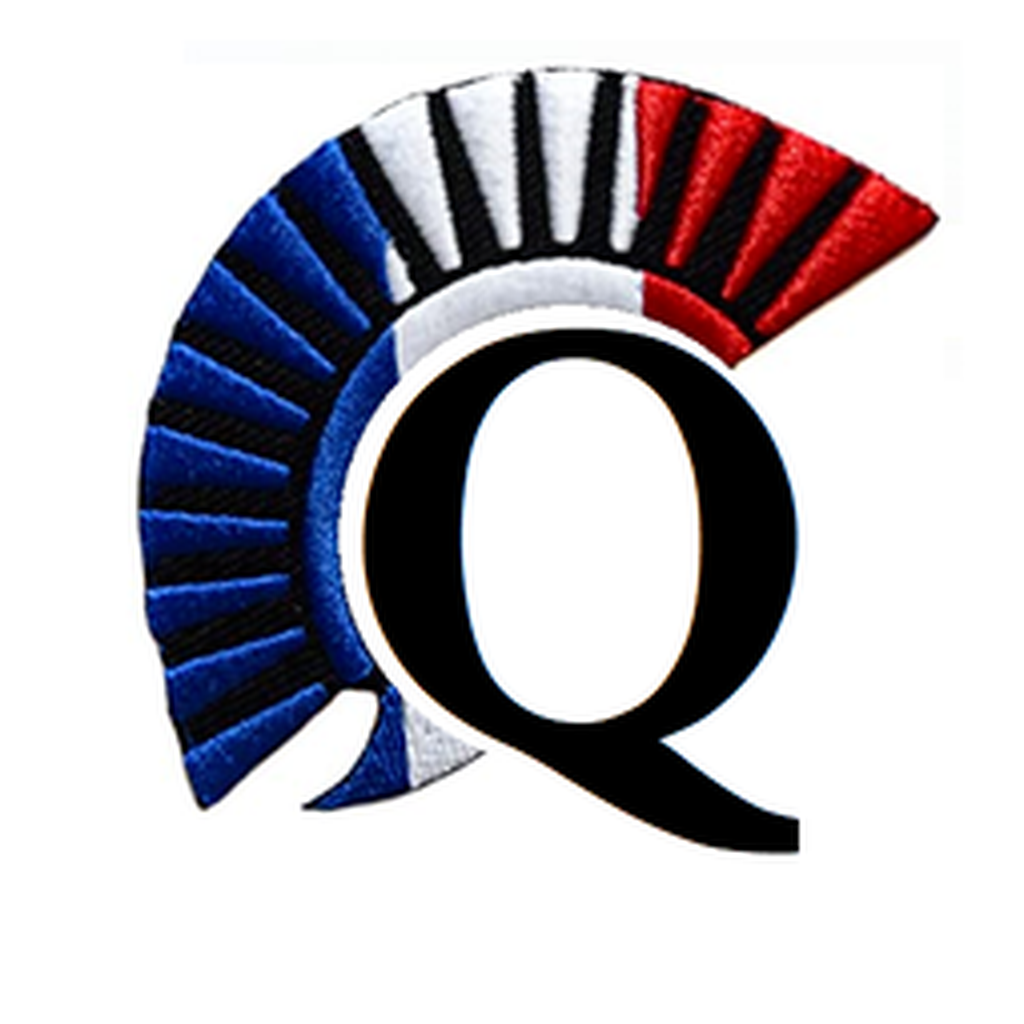
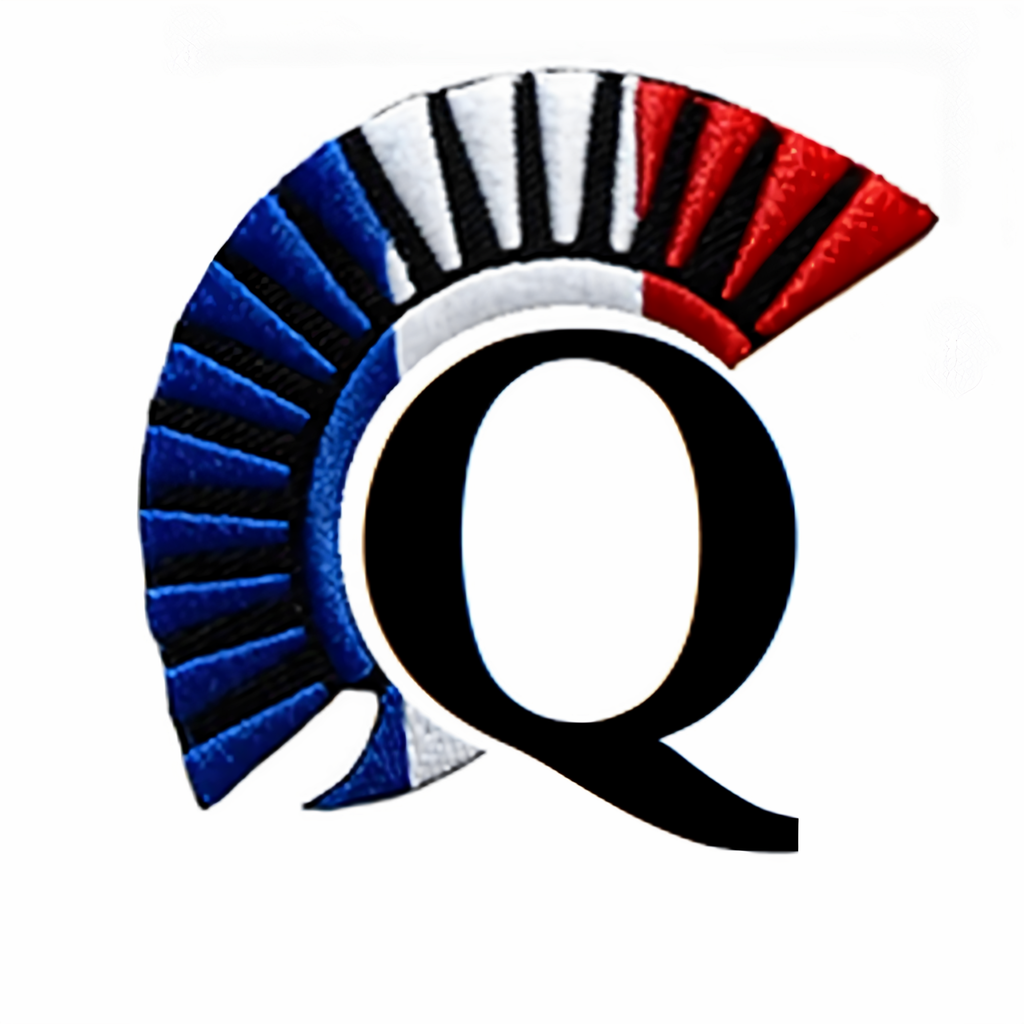
Changed how splash screen works using native tech

diff --git a/lib/screens/ArticleScreen.dart b/lib/screens/ArticleScreen.dart
@@ -1,11 +1,14 @@
 import 'package:Qactus/json_processing/Article.dart';
 import 'package:flutter/cupertino.dart';
+import 'package:flutter/foundation.dart';
+import 'package:flutter/gestures.dart';
 import 'package:flutter/material.dart';
 import 'package:flutter_html/flutter_html.dart';
 import 'package:flutter_html/html_parser.dart';
 import 'package:flutter_html/style.dart';
 import 'package:share/share.dart';
 import 'package:url_launcher/url_launcher.dart';
+import 'package:webview_flutter/webview_flutter.dart';
 
 class ArticleScreen extends StatelessWidget {
   final Article article;
@@ -37,47 +40,83 @@ class ArticleScreen extends StatelessWidget {
       body: Scrollbar(
         child: SingleChildScrollView(
           child: Html(
-            data: article.content.text,
-            // TODO: those custom styles are placeholders
-            style: {
-              //  "html": Style(
-              //    backgroundColor: Colors.black12,
-              //   color: Colors.white,
-              //  ),
-              // "h1": Style(
-              //   textAlign: TextAlign.center,
-              // ),
-              "img": Style(
-                alignment: Alignment.center,
-              )
-            },
-            customRender: {
-              "video": (RenderContext context, Widget child, attributes, _) {
-                return FlutterLogo(
-                  style: (attributes['horizontal'] != null)
-                      ? FlutterLogoStyle.horizontal
-                      : FlutterLogoStyle.markOnly,
-                  textColor: context.style.color,
-                  size: context.style.fontSize.size * 5,
-                );
+              data: article.content.text,
+              // TODO: those custom styles are placeholders
+              style: {
+                "img": Style(
+                  alignment: Alignment.center,
+                )
               },
-            },
-            onLinkTap: (url) async {
-              if (await canLaunch(url)) {
-                await launch(url);
-              } else {
-                throw 'Could not launch $url';
-              }
-            },
-            onImageTap: (src) {
-              Image.network(src);
-            },
-            onImageError: (exception, stackTrace) {
-              print(exception);
-            },
-          ),
+              // customRender: getCustomRender(),
+              onLinkTap: (url) async {
+                if (await canLaunch(url)) {
+                  await launch(url);
+                } else {
+                  throw 'Could not launch $url';
+                }
+              },
+              onImageTap: (src) {
+                print("test");
+                Image.network(src);
+              },
+              onImageError: (exception, stackTrace) {
+                print(exception);
+              },
+              customRender: {
+                "iframe": (RenderContext context, Widget child,
+                    Map<String, String> attributes, _) {
+                  if (attributes != null && attributes.length > 0) {
+                    double width = double.tryParse(attributes['width'] ?? "");
+                    double height = double.tryParse(attributes['height'] ?? "");
+                    print(attributes['src']);
+                    return Container(
+                      width: width ?? (height ?? 150) * 2,
+                      height: height ?? (width ?? 300) / 2,
+                      child: WebView(
+                        initialUrl: attributes['src'],
+                        javascriptMode: JavascriptMode.unrestricted,
+                        //no need for scrolling gesture recognizers on embedded youtube, so set gestureRecognizers null
+                        //on other iframe content scrolling might be necessary, so use VerticalDragGestureRecognizer
+                        gestureRecognizers: attributes['src']
+                                .contains("youtube.com/embed")
+                            ? null
+                            : [Factory(() => VerticalDragGestureRecognizer())]
+                                .toSet(),
+                        navigationDelegate: (NavigationRequest request) async {
+                          // //no need to load any url besides the embedded youtube url when displaying embedded youtube, so prevent url loading
+                          // //on other iframe content allow all url loading
+                          // if (attributes['src'].contains("youtube.com/embed")) {
+                          //   if (!request.url.contains("youtube.com/embed")) {
+                          //     return NavigationDecision.prevent;
+                          //   } else {
+                          //     return NavigationDecision.navigate;
+                          //   }
+                          // } else {
+                          return NavigationDecision.navigate;
+                          // }
+                        },
+                      ),
+                    );
+                  } else {
+                    return Container(height: 0);
+                  }
+                }
+              }),
         ),
       ),
     );
   }
+
+  // // define all customRenders
+  // Map<String, CustomRender> getCustomRender() {
+  //   var customRender = HashMap<String, CustomRender>();
+  //   customRender["iframe"] = getVideoCustomRender;
+  //   return customRender;
+  // }
+  //
+  // // create customRender for asset images
+  // Widget getVideoCustomRender(RenderContext context, Widget parsedChild,
+  //     Map<String, String> attributes, element) {
+  //   return VideoPlayerScreen(url: attributes["src"]);
+  // }
 }

diff --git a/lib/screens/VideoPlayerScreen.dart b/lib/screens/VideoPlayerScreen.dart
@@ -1,0 +1,65 @@
+import 'dart:async';
+
+import 'package:flutter/material.dart';
+import 'package:video_player/video_player.dart';
+
+class VideoPlayerScreen extends StatefulWidget {
+  VideoPlayerScreen({Key key, @required this.url}) : super(key: key);
+
+  final String url;
+
+  @override
+  _VideoPlayerScreenState createState() => _VideoPlayerScreenState();
+}
+
+class _VideoPlayerScreenState extends State<VideoPlayerScreen> {
+  VideoPlayerController _controller;
+  Future<void> _initializeVideoPlayerFuture;
+
+  @override
+  void initState() {
+    _controller = VideoPlayerController.network(widget.url);
+    _initializeVideoPlayerFuture = _controller.initialize();
+    _controller.setLooping(true);
+    super.initState();
+  }
+
+  @override
+  void dispose() {
+    _controller.dispose();
+    super.dispose();
+  }
+
+  @override
+  Widget build(BuildContext context) {
+    return Scaffold(
+      body: FutureBuilder(
+        future: _initializeVideoPlayerFuture,
+        builder: (context, snapshot) {
+          if (snapshot.connectionState == ConnectionState.done) {
+            return AspectRatio(
+              aspectRatio: _controller.value.aspectRatio,
+              child: VideoPlayer(_controller),
+            );
+          } else {
+            return Center(
+              child: CircularProgressIndicator(),
+            );
+          }
+        },
+      ),
+      floatingActionButton: FloatingActionButton(
+        onPressed: () {
+          setState(() {
+            _controller.value.isPlaying
+                ? _controller.pause()
+                : _controller.play();
+          });
+        },
+        // child: Icon(
+        //   _controller.value.isPlaying ? Icons.pause : Icons.play_arrow,
+        // ),
+      ),
+    );
+  }
+}

diff --git a/lib/screens/HomePageScreen.dart b/lib/screens/HomePageScreen.dart
@@ -15,7 +15,6 @@ import 'package:octo_image/octo_image.dart';
 import '../components/HttpFeeds.dart';
 import 'ArticleScreen.dart';
 import 'ErrorScreen.dart';
-import 'SplashScreen.dart';
 
 class HomePageScreen extends StatefulWidget {
   const HomePageScreen({Key key}) : super(key: key);
@@ -32,8 +31,6 @@ class _HomePageScreenState extends State<HomePageScreen> {
   final DateFormat _dateFormatter = DateFormat('dd-MM-yyyy');
   Future<List<Article>> _articles;
 
-  double _loadingProgress;
-
   @override
   void initState() {
     super.initState();
@@ -47,8 +44,6 @@ class _HomePageScreenState extends State<HomePageScreen> {
       builder: (BuildContext context, AsyncSnapshot<List<Article>> snapshot) {
         if (snapshot.hasError) {
           return ErrorScreen();
-        } else if (!snapshot.hasData) {
-          return SplashScreen();
         }
 
         return Scaffold(
@@ -90,7 +85,7 @@ class _HomePageScreenState extends State<HomePageScreen> {
           ),
           body: Scrollbar(
             child: ListView.builder(
-              itemCount: snapshot.data.length,
+              itemCount: snapshot.hasData ? snapshot.data.length : 0,
               itemBuilder: (BuildContext builder, int index) {
                 if (snapshot.connectionState == ConnectionState.done &&
                     EasyLoading.isShow) {

diff --git a/lib/components/SideMenu.dart b/lib/components/SideMenu.dart
@@ -17,7 +17,7 @@ class SideMenu extends StatelessWidget {
                 crossAxisAlignment: CrossAxisAlignment.start,
                 children: [
                   Image.asset(
-                    "assets/header.png",
+                    "assets/appstore.png",
                     width: 100,
                   ),
                   Text(
@@ -56,7 +56,11 @@ class SideMenu extends StatelessWidget {
                         applicationVersion: packageInfo.version +
                             " build number " +
                             packageInfo.buildNumber,
-                        applicationIcon: Image.asset("assets/header.png"),
+                        applicationIcon: Image.asset(
+                          "assets/appstore.png",
+                          width: 100.0,
+                          height: 100.0,
+                        ),
                         children: [
                           Text(
                               "Un avis? Une suggestion? Juste quelque chose à me dire?"),

diff --git a/lib/Main.dart b/lib/Main.dart
@@ -3,8 +3,8 @@ import 'package:flutter/material.dart';
 import 'package:flutter_easyloading/flutter_easyloading.dart';
 
 void main() async {
-  runApp(Qactus());
   configLoading();
+  runApp(Qactus());
 }
 
 void configLoading() {
